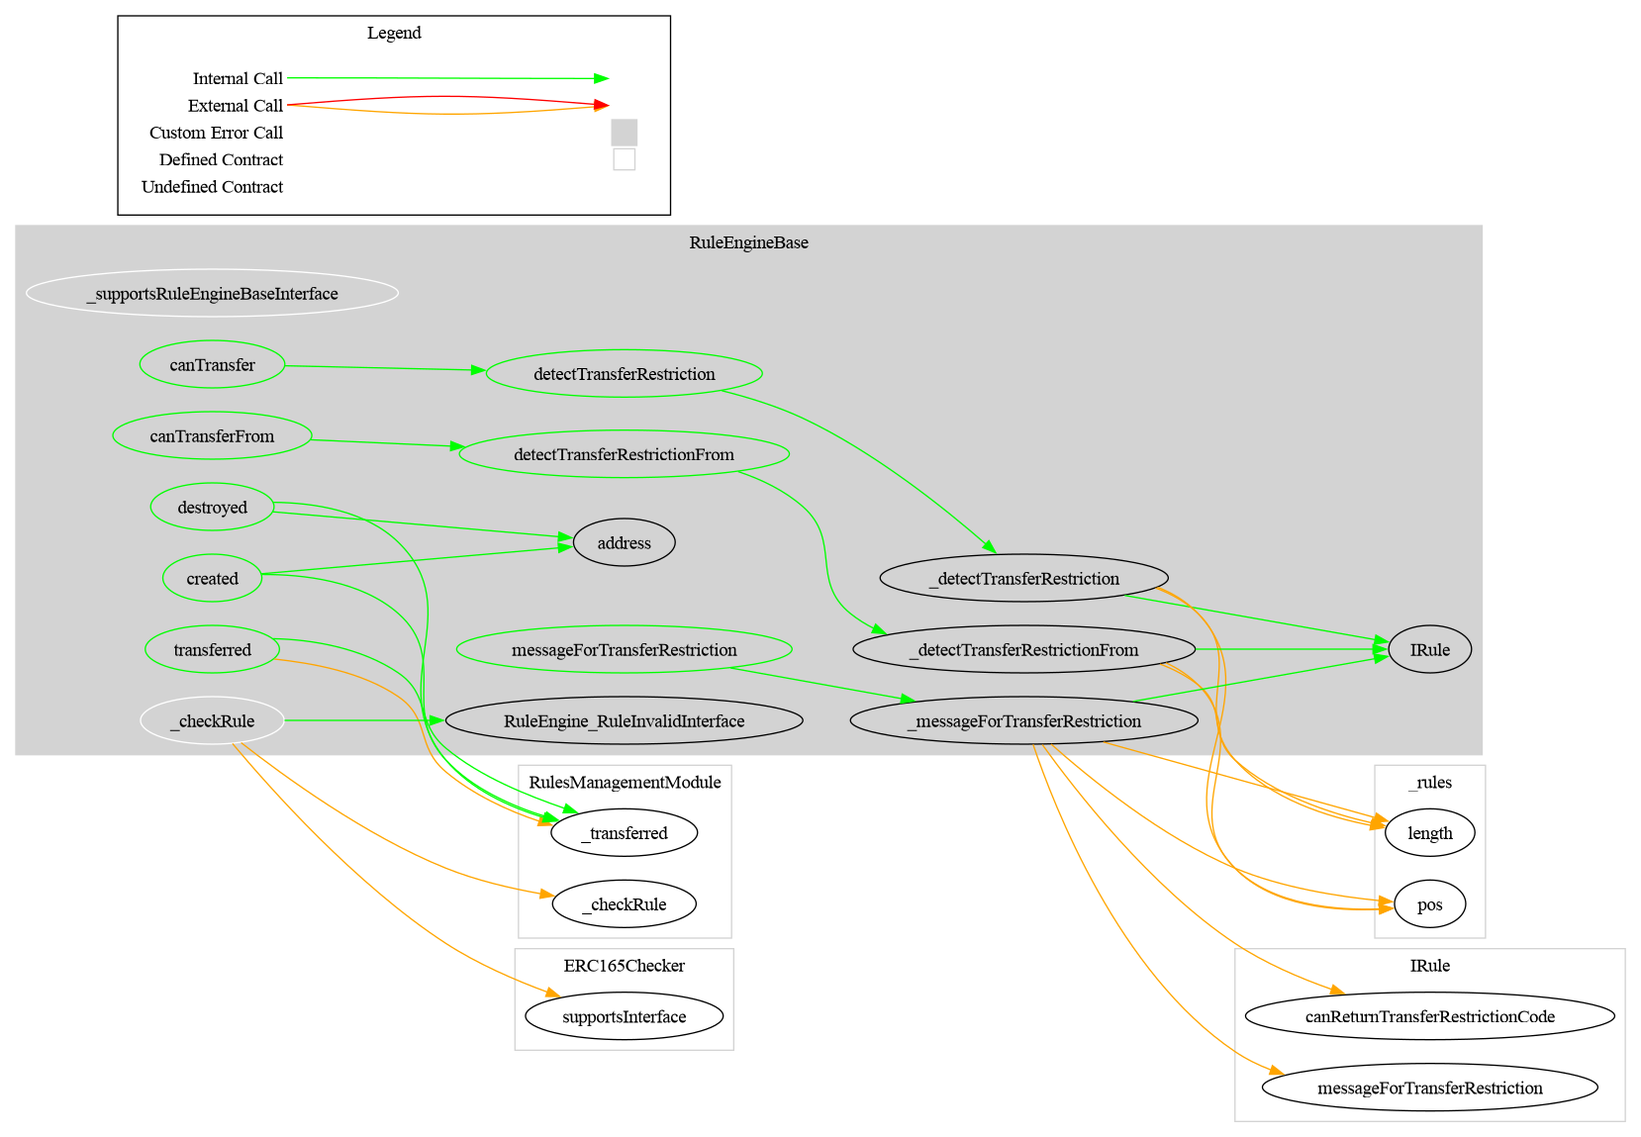
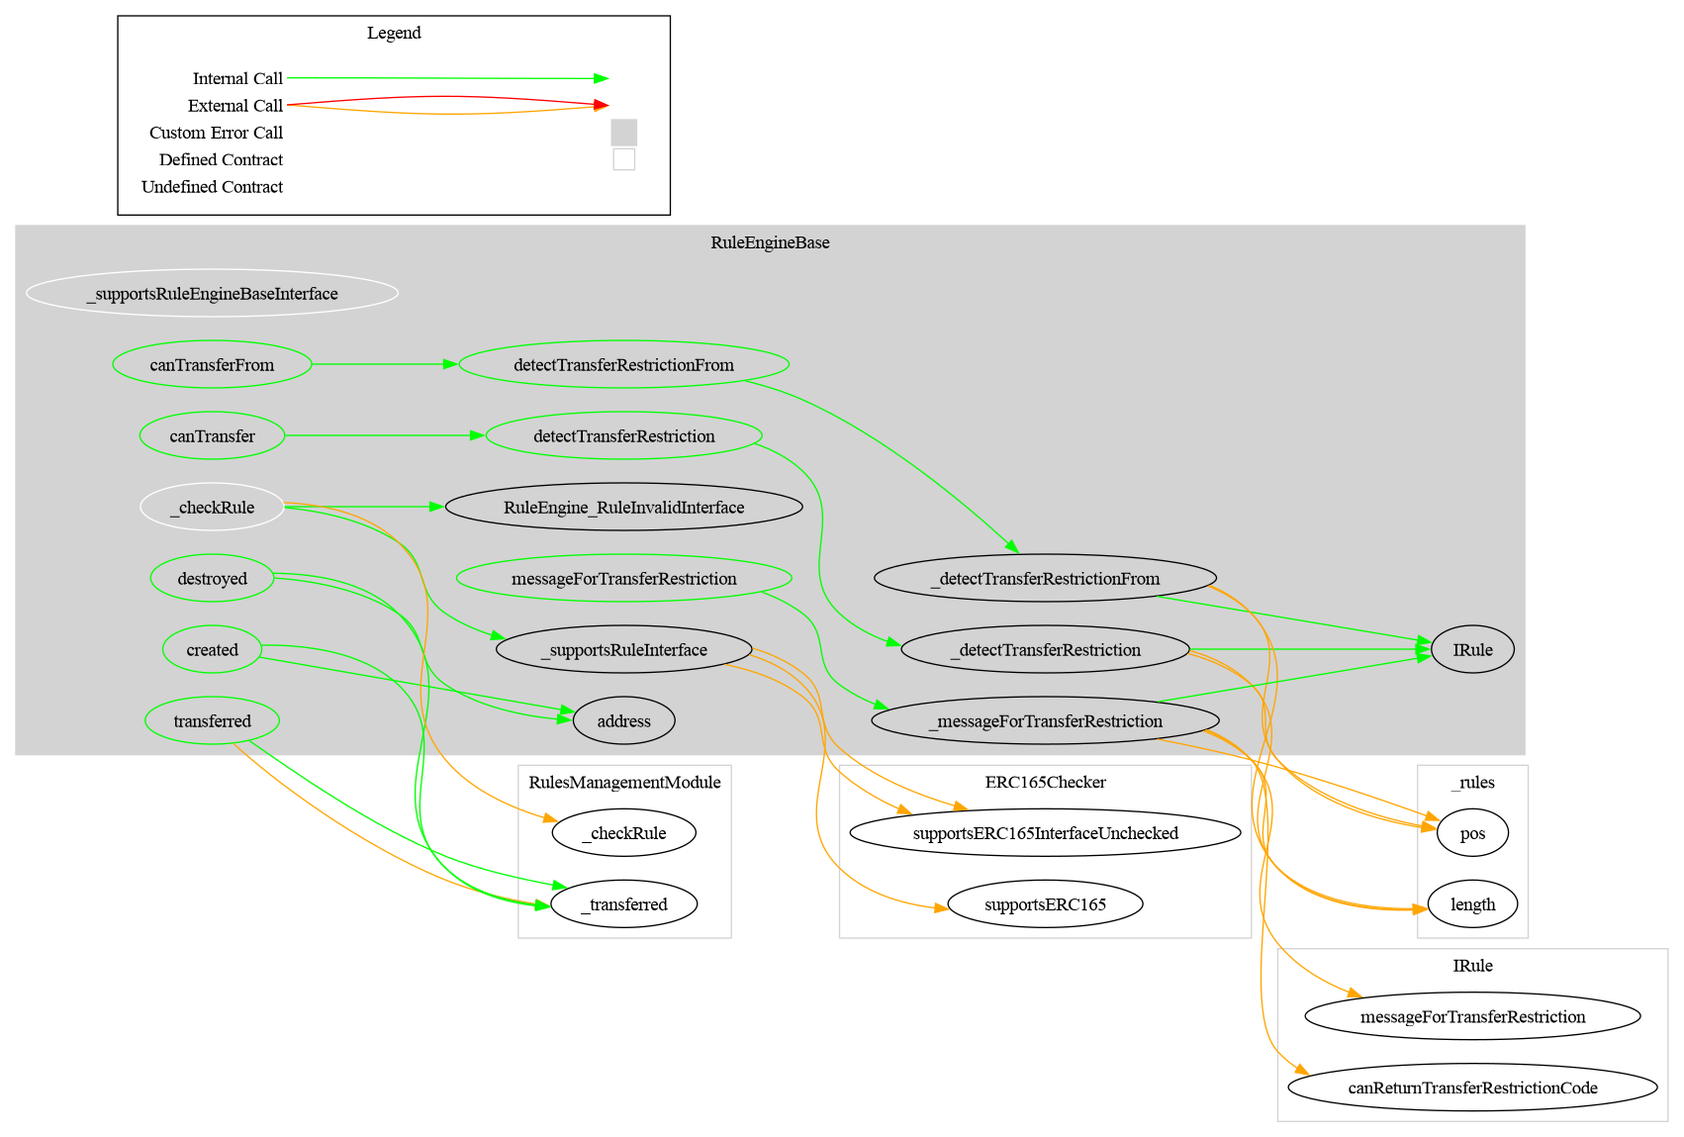
feat: accept the legacy IRule ERC-165 id 0x2497d6cb alongside the narrowed 0xb1a69752 so rules built before rc7 keep working, checking ERC-165 support once (rc7 code-quality review I-1)

diff --git a/CHANGELOG.md b/CHANGELOG.md
@@ -125,7 +125,6 @@ Security hardening of the ERC-2771 token-identity checks, and ERC-2771 becomes o
 - **ERC-2771 is now opt-in: `RuleEngine`, `RuleEngineOwnable` and `RuleEngineOwnable2Step` no longer support it, and their constructors drop the forwarder.** They are now `constructor(address admin, address tokenContract)` and `constructor(address owner_, address tokenContract)`, have no `isTrustedForwarder` / `trustedForwarder`, and treat every caller as the raw `msg.sender`. The versions with a trusted forwarder are the new **`RuleEngine2771`**, **`RuleEngineOwnable2771`** and **`RuleEngineOwnable2Step2771`**, whose constructors `(admin|owner_, forwarderIrrevocable, tokenContract)` and behaviour are those of the rc6 contracts without the suffix. Migration: a deployment that passed `address(0)` as forwarder drops the middle argument; one that passed a forwarder deploys the `*2771` contract. Deployment scripts in other repositories (for example CMTA/Rules) that call the 3-argument constructors must be updated.
 - **Token callbacks and token self-binding are no longer relayable through the ERC-2771 forwarder.** `transferred`, `created` and `destroyed` (`onlyBoundToken`), and a token's own `bindToken` / `unbindToken(this)`, now identify the token by `msg.sender` instead of `_msgSender()`. A call that the trusted forwarder relays with a token address appended is rejected (`TokenBinding_UnauthorizedCaller`, or the binding-manager check for the self-binding path). Real tokens are unaffected, because they always call the engine directly. Only a setup that relayed token callbacks through the forwarder breaks, and no legitimate setup does. Administrative functions are unchanged and remain relayable.
 - **`version()` return value format.** It now returns `"3.0.0-rc7"` instead of `"3.0.0"`. An integration that compares the string literally (deployment checks, indexers, upgrade scripts) must be updated, and must expect the suffix to change at each release candidate.
-- **`IRule` narrowed: its ERC-165 ID changes from `0x2497d6cb` to `0xb1a69752`, and the engine accepts only the new one.** `IRule` now requires only the six functions the engine calls (`transferred` x2, `detectTransferRestriction`, `detectTransferRestrictionFrom`, `messageForTransferRestriction`, `canReturnTransferRestrictionCode`) plus ERC-165; it no longer inherits CMTAT's `IRuleEngineERC1404`, so `canTransfer` / `canTransferFrom` are no longer required. **A rule that advertises only `0x2497d6cb` is rejected by `addRule` / `setRules` (`RuleEngine_RuleInvalidInterface`)**: every rule of the Rules repository must advertise the new ID (both IDs, to work with older engines too) before it can be added to an rc7 engine. A rule that also wants to be set directly as a token's rule engine implements `IRuleEngineERC1404` on top of `IRule`. rc7 code-quality review `I-1`.
 - **Deployable source paths.** The six deployables moved from `src/deployment/` to `src/deployment/accessControl/` (`RuleEngine`, `RuleEngine2771`) and `src/deployment/ownable/` (the four ownable contracts). A project that imports them, or a script that names the file (`forge create src/deployment/RuleEngine.sol:RuleEngine`), must update the path. Contract names, constructors and ABIs are unchanged.
 - **No storage change.** The RuleEngine is not upgradeable and uses no ERC-7201 namespace.
 - **No external engine interface change.** Function signatures, selectors, events, errors (except the removal of the unreachable `RuleEngine_RulesManagementModule_OperationNotSuccessful`) and advertised ERC-165 interface IDs are identical to rc6 (the engine advertises no `IRule` ID; the ID it *requires* of rules changes, see above), for all four variants (ERC-2771 has no ERC-165 id). Only who may call the token callbacks changes, and the constructors and ERC-2771 views of the three contracts without the `2771` suffix (see above). The CMTAT v3.3.0-rc4 update changes only NatSpec in `IRuleEngine`. Its engine-facing breaking changes (mint, burn and the minter `batchTransfer` routed to the 4-argument `transferred`, the reentrancy guard around `transferred`, the `^0.8.24` pragma of the engine interfaces) were already present in the v3.3.0-rc1 / rc3 targets of rc4–rc6.
@@ -144,7 +143,7 @@ Security hardening of the ERC-2771 token-identity checks, and ERC-2771 becomes o
 - CI (`.github/workflows/ci.yml`) also runs `FOUNDRY_PROFILE=erc3643 forge test`, so the 13 tests against the real T-REX 4.2.0-beta1 token are no longer skipped. rc7 code-quality review `K-4`.
 - A rule used directly as a CMTAT token's rule engine (no RuleEngine) is now tested and documented: `test/RuleStandalone/RuleStandaloneCMTAT.t.sol` (9 tests, one or more per reference rule, on a real CMTAT token; 438 -> 447 tests) and `RuleEngine-with-CMTAT.md` §4.8, which states what a rule must do for that role (restrict who calls `transferred` when it keeps state, keep `canTransfer*` consistent with `detectTransferRestriction*`). The four reference rules import `RULE_ENGINE_INTERFACE_ID` and `ERC1404EXTEND_INTERFACE_ID` from CMTAT instead of hardcoding them. rc7 code-quality review `I-2`.
 - Error style: the 8 remaining `if (...) { revert X(); }` sites in `src/` (and 4 in the mock rules) use `require(cond, X())`, as the project convention asks. Same errors, same conditions; gas unchanged on the token path (`transferred`), +13 on `addRule` (the cap is cached in a local because `require` evaluates the error argument eagerly) and +5 on `setRules`. rc7 code-quality review `E-2`.
-- `IRule` declares the engine's needs only (`src/interfaces/IRule.sol`: `IERC1404Extend`, `IERC3643IComplianceContract`, `IERC165`, plus the 4-argument `transferred` and `canReturnTransferRestrictionCode`) and `RuleInterfaceId.IRULE_INTERFACE_ID` is recomputed (`0xb1a69752`). The four reference rules also implement `IRuleEngineERC1404` to keep the standalone role, with `override(IRule, IRuleEngine)` on the 4-argument `transferred`; the test probes `RuleCodeProbe` and `SupplyCapProbeRule` drop `canTransfer` / `canTransferFrom` and are accepted on all six deployables. New tests: the new ID equals the old one XOR the two selectors, an engine-only rule is accepted and a rule advertising only `0x2497d6cb` is rejected, on all six deployables (447 -> 460 tests). rc7 code-quality review `I-1`.
+- `IRule` declares the engine's needs only (`src/interfaces/IRule.sol`: `IERC1404Extend`, `IERC3643IComplianceContract`, `IERC165`, plus the 4-argument `transferred` and `canReturnTransferRestrictionCode`) and `RuleInterfaceId.IRULE_INTERFACE_ID` is recomputed (`0xb1a69752`). The four reference rules also implement `IRuleEngineERC1404` to keep the standalone role, with `override(IRule, IRuleEngine)` on the 4-argument `transferred`; the test probes `RuleCodeProbe` and `SupplyCapProbeRule` drop `canTransfer` / `canTransferFrom` and are accepted on all six deployables. `IRule` no longer inherits CMTAT's `IRuleEngineERC1404`, so a new rule needs neither `canTransfer` nor `canTransferFrom`. **Not breaking for existing rules:** `RuleEngineBase._supportsRuleInterface` accepts the new ID or the legacy one (`RuleInterfaceId.IRULE_LEGACY_INTERFACE_ID`, `0x2497d6cb`, a superset of the new interface), after checking ERC-165 support once; a contract advertising neither, or answering `true` to every ID, is rejected. `addRule` with a current-ID rule costs 64 gas less than before. New tests: the new ID equals the old one XOR the two selectors and the legacy constant is pinned; on all six deployables, an engine-only rule is accepted, a rule advertising only the legacy ID is accepted, and a contract advertising no rule ID, claiming every ID, or without ERC-165 (an EOA) is rejected; removing the ERC-165 pre-check or the legacy fallback each fails 6 tests (447 -> 481 tests). rc7 code-quality review `I-1`.
 - `bindTokens` / `unbindTokens` stay atomic by decision: one token already bound (or not bound) reverts the whole call, unlike the skip-if-already-done batch convention of `RuleAddressList`, because a binding change is security-relevant. Stated in the `ITokenBindingExtended` NatSpec and `TokenBinding-module.md` §4; the batch tests now check the rollback of the tokens processed before the failure, and a new test pins empty batches as no-ops, in the three access-control families (460 -> 463 tests). rc7 code-quality review `C-3`.
 - Self-binding approval events: kept as they are, documented. The `ITokenBindingExtended` NatSpec no longer says `TokenSelfBindingApprovalBatchSet` lists the tokens whose permission *changed* (it is the input array, with no-ops and duplicates), and states that the batch emits no per-token `TokenSelfBindingApprovalSet`, so indexers must handle both events or read `isTokenSelfBindingApproved`; same warning in `TokenBinding-module.md` §4. `TokenBound` / `TokenUnbound` NatSpec states they stay non-indexed as declared by ERC-3643. rc7 code-quality review `C-2`.
 - `version()` now returns `"3.0.0-rc7"` instead of `"3.0.0"`, so the on-chain string matches the release tag (`VersionModule.VERSION`). The `version()` assertions of the RBAC and Ownable suites and of the Hardhat smoke test are updated, and `RuleEngineOwnable2Step` gains its own `testHasRightVersion` (348 -> 349 tests).

diff --git a/doc/security/audits/tools/v3.0.0-rc7/CLAUDE_ANALYSIS.md b/doc/security/audits/tools/v3.0.0-rc7/CLAUDE_ANALYSIS.md
@@ -67,7 +67,7 @@ ERC-2771 / no-forwarder suites; see the CHANGELOG). No benchmark or probe file i
 | H-1 | View approves a mint that enforcement rejects | ⬜ documented — carried, unchanged |
 | H-2 | Sender resolution after the ERC-2771 fix and the split | ⬜ verified — two identity sites, both `msg.sender`; no-forwarder variants ignore any suffix |
 | H-3 | A `*2771` deployable accepts `address(0)` as its forwarder | ⚠ decide — new in the second pass |
-| I-1 | `IRule` demands two functions the engine never calls | ✅ fixed after the second pass — `IRule` narrowed, ID `0xb1a69752`, strict gate (old ID rejected) |
+| I-1 | `IRule` demands two functions the engine never calls | ✅ fixed after the second pass — `IRule` narrowed, ID `0xb1a69752`; the legacy ID `0x2497d6cb` is still accepted |
 | I-2 | Standalone-rule configuration advertised but untested | ✅ fixed after the second pass (option 1) — 9 integration tests, CMTAT guide §4.8, mocks import CMTAT's ids; mock `transferred` left unguarded, documented |
 | I-3 | Engine should call `canTransfer` on rules? | ⬜ no — carried from rc6 |
 | J-1 | Binding registry embeddable in a foreign host | ⬜ re-verified by example — two hosts compile (no `5005`); size depends on the host's CMTAT deployment version |
@@ -799,6 +799,29 @@ nothing calls.
   (`testEngineOnlyRuleWithoutComplianceReadsIsAccepted`, and every rule-aggregation and real-T-REX test).
 - **Verified:** full suite 460/460, `FOUNDRY_PROFILE=erc3643 forge test` 13/13, production coverage 100% (lines,
   statements, branches 48/48, functions).
+
+**Revised: the legacy ID is accepted after all (maintainer decision).** The strict gate above was reversed so
+that rules built before rc7 keep working without a coordinated release. The bullet "Migration: strict" is
+superseded; the rest stands.
+
+- **Gate.** `RuleEngineBase._checkRule` now calls a new `internal view virtual` hook,
+  `_supportsRuleInterface(rule)`: it checks ERC-165 support once (`ERC165Checker.supportsERC165`, which also
+  rejects a contract answering `true` to `0xffffffff`), then `IRULE_INTERFACE_ID`, then, only if that fails,
+  `IRULE_LEGACY_INTERFACE_ID`. Accepting the legacy ID is safe: it describes a superset of the current interface
+  (the same six functions plus `canTransfer` / `canTransferFrom`), and the engine calls only the six.
+- **Constant.** `RuleInterfaceId.IRULE_LEGACY_INTERFACE_ID = IRULE_INTERFACE_ID ^ IERC3643ComplianceRead ^
+  IERC7551Compliance = 0x2497d6cb`, computed like the others and pinned by
+  `testIRuleIdExcludesTheComplianceReads`.
+- **Tests, on all six deployables** (`RuleAggregationTestBase`): `testRuleAdvertisingOnlyTheLegacyIdIsAccepted`
+  (was `...IsRejected`), and three negative tests: `testRuleAdvertisingNoRuleIdIsRejected`,
+  `testRuleClaimingEveryInterfaceIsRejected`, `testRuleWithoutErc165IsRejected` (an EOA). Checked that they can
+  fail: removing the legacy fallback fails 6 tests, removing the ERC-165 pre-check fails 6 (the
+  claim-everything case; the EOA case alone would not catch it, since a call to an EOA returns no data and
+  reads as `false`).
+- **Gas.** `addRule` with a current-ID rule: 68,069 -> 68,005 (−64), since ERC-165 support and the ID are now
+  queried in one pass. A legacy rule pays one more `staticcall` (not isolated).
+- **Verified:** full suite 481/481, `FOUNDRY_PROFILE=erc3643 forge test` 13/13, production coverage 100% (lines,
+  statements, branches 49/49, functions).
 
 The limit stated above still holds: the narrowed ID describes shape, not semantics.
 

diff --git a/AGENTS.md b/AGENTS.md
@@ -167,9 +167,14 @@ require(_rules.add(address(rule_)), RuleEngine_RulesManagementModule_RuleAlready
 // RuleEngineBase (adds ERC-165 check):
 function _checkRule(address rule_) internal view virtual override {
     RulesManagementModule._checkRule(rule_);
-    require(
-        ERC165Checker.supportsInterface(rule_, RuleInterfaceId.IRULE_INTERFACE_ID), RuleEngine_RuleInvalidInterface()
-    );
+    require(_supportsRuleInterface(rule_), RuleEngine_RuleInvalidInterface());
+}
+
+// ERC-165 support checked once, then the current IRule ID, then the legacy (pre-rc7) one:
+function _supportsRuleInterface(address rule_) internal view virtual returns (bool) {
+    if (!ERC165Checker.supportsERC165(rule_)) return false;
+    return ERC165Checker.supportsERC165InterfaceUnchecked(rule_, RuleInterfaceId.IRULE_INTERFACE_ID)
+        || ERC165Checker.supportsERC165InterfaceUnchecked(rule_, RuleInterfaceId.IRULE_LEGACY_INTERFACE_ID);
 }
 ```
 
@@ -246,7 +251,7 @@ This gives O(1) add/remove/contains and iterable storage.
 | `IRuleEngine` | Full CMTAT integration interface | `lib/CMTAT/contracts/interfaces/engine/IRuleEngine.sol` |
 
 **ERC-165 interface IDs:**
-- `IRule`: `0xb1a69752` (`src/modules/library/RuleInterfaceId.sol`). Narrowed in rc7 (was `0x2497d6cb`, which also covered `canTransfer` / `canTransferFrom`); the engine accepts only the new ID
+- `IRule`: `0xb1a69752` (`src/modules/library/RuleInterfaceId.sol`). Narrowed in rc7 (was `0x2497d6cb`, which also covers `canTransfer` / `canTransferFrom`); the engine accepts both, the legacy one as `IRULE_LEGACY_INTERFACE_ID` (`RuleEngineBase._supportsRuleInterface`)
 - `IERC3643Compliance`: `0x3144991c`, extended: `0x646ba2be`, `IERC7551Compliance`: `0x7157797f` (`ComplianceInterfaceId.sol`)
 - `IERC1404`: `0xab84a5c8` (`ERC1404InterfaceId.sol`)
 - `IRuleEngine`: from `CMTAT/library/RuleEngineInterfaceId.sol`
@@ -337,7 +342,7 @@ Key points:
 ## Key Invariants
 
 1. **Only bound tokens** can call `transferred()`, `created()`, `destroyed()`
-2. **Rules are validated via ERC-165** before being added — they must support `IRULE_INTERFACE_ID`
+2. **Rules are validated via ERC-165** before being added — they must support `IRULE_INTERFACE_ID` or the legacy `IRULE_LEGACY_INTERFACE_ID`
 3. **No duplicate rules** — `EnumerableSet` prevents this
 4. **No zero-address rules** — checked in `_checkRule`
 5. **Admin has all roles** in `RuleEngine` and `RuleEngine2771` (the `hasRole` override in `RuleEngine`, inherited by `RuleEngine2771`)

diff --git a/CLAUDE.md b/CLAUDE.md
@@ -167,9 +167,14 @@ require(_rules.add(address(rule_)), RuleEngine_RulesManagementModule_RuleAlready
 // RuleEngineBase (adds ERC-165 check):
 function _checkRule(address rule_) internal view virtual override {
     RulesManagementModule._checkRule(rule_);
-    require(
-        ERC165Checker.supportsInterface(rule_, RuleInterfaceId.IRULE_INTERFACE_ID), RuleEngine_RuleInvalidInterface()
-    );
+    require(_supportsRuleInterface(rule_), RuleEngine_RuleInvalidInterface());
+}
+
+// ERC-165 support checked once, then the current IRule ID, then the legacy (pre-rc7) one:
+function _supportsRuleInterface(address rule_) internal view virtual returns (bool) {
+    if (!ERC165Checker.supportsERC165(rule_)) return false;
+    return ERC165Checker.supportsERC165InterfaceUnchecked(rule_, RuleInterfaceId.IRULE_INTERFACE_ID)
+        || ERC165Checker.supportsERC165InterfaceUnchecked(rule_, RuleInterfaceId.IRULE_LEGACY_INTERFACE_ID);
 }
 ```
 
@@ -246,7 +251,7 @@ This gives O(1) add/remove/contains and iterable storage.
 | `IRuleEngine` | Full CMTAT integration interface | `lib/CMTAT/contracts/interfaces/engine/IRuleEngine.sol` |
 
 **ERC-165 interface IDs:**
-- `IRule`: `0xb1a69752` (`src/modules/library/RuleInterfaceId.sol`). Narrowed in rc7 (was `0x2497d6cb`, which also covered `canTransfer` / `canTransferFrom`); the engine accepts only the new ID
+- `IRule`: `0xb1a69752` (`src/modules/library/RuleInterfaceId.sol`). Narrowed in rc7 (was `0x2497d6cb`, which also covers `canTransfer` / `canTransferFrom`); the engine accepts both, the legacy one as `IRULE_LEGACY_INTERFACE_ID` (`RuleEngineBase._supportsRuleInterface`)
 - `IERC3643Compliance`: `0x3144991c`, extended: `0x646ba2be`, `IERC7551Compliance`: `0x7157797f` (`ComplianceInterfaceId.sol`)
 - `IERC1404`: `0xab84a5c8` (`ERC1404InterfaceId.sol`)
 - `IRuleEngine`: from `CMTAT/library/RuleEngineInterfaceId.sol`
@@ -337,7 +342,7 @@ Key points:
 ## Key Invariants
 
 1. **Only bound tokens** can call `transferred()`, `created()`, `destroyed()`
-2. **Rules are validated via ERC-165** before being added — they must support `IRULE_INTERFACE_ID`
+2. **Rules are validated via ERC-165** before being added — they must support `IRULE_INTERFACE_ID` or the legacy `IRULE_LEGACY_INTERFACE_ID`
 3. **No duplicate rules** — `EnumerableSet` prevents this
 4. **No zero-address rules** — checked in `_checkRule`
 5. **Admin has all roles** in `RuleEngine` and `RuleEngine2771` (the `hasRole` override in `RuleEngine`, inherited by `RuleEngine2771`)

diff --git a/doc/README.md b/doc/README.md
@@ -456,9 +456,10 @@ Notes:
   `ruleEngine.supportsInterface(0xb1a69752)` to return true.
 - **`IRule` was narrowed in v3.0.0-rc7.** It requires the six functions the engine calls (`transferred` x2,
   `detectTransferRestriction(From)`, `messageForTransferRestriction`, `canReturnTransferRestrictionCode`) plus
-  ERC-165, and no longer `canTransfer` / `canTransferFrom`. The ID moved from `0x2497d6cb` to `0xb1a69752`, and
-  the engine accepts **only** the new one: a rule that advertises only `0x2497d6cb` is rejected by `addRule` /
-  `setRules` with `RuleEngine_RuleInvalidInterface`. A rule built for both generations advertises both IDs.
+  ERC-165, and no longer `canTransfer` / `canTransferFrom`. The ID moved from `0x2497d6cb` to `0xb1a69752`.
+  **The engine accepts both**: the legacy ID (`RuleInterfaceId.IRULE_LEGACY_INTERFACE_ID`) describes a superset
+  of the current interface, so rules built before rc7 can still be added. A contract advertising neither, or
+  not implementing ERC-165 correctly, is rejected with `RuleEngine_RuleInvalidInterface`.
 - **The IDs are computed from the interfaces, not hardcoded** — see `ComplianceInterfaceId`, `RuleInterfaceId`
   and `ERC1404InterfaceId`, and `test/RuleEngine/IRuleInterfaceId.t.sol`, which pins each one to the wire value
   above. `type(I).interfaceId` counts only the functions `I` declares *directly*, so every constant XORs the
@@ -667,7 +668,7 @@ Rule families:
 
 Additional integration notes:
 
-- For RuleEngine integration, a rule must implement `IRule` and advertise its ERC-165 ID `0xb1a69752`. Since v3.0.0-rc7 that ID no longer includes `canTransfer` / `canTransferFrom`, and a rule advertising only the older `0x2497d6cb` is rejected; rules from the Rules repository must advertise the new ID to be added to an rc7 engine.
+- For RuleEngine integration, a rule must implement `IRule` and advertise its ERC-165 ID `0xb1a69752`. Since v3.0.0-rc7 that ID no longer includes `canTransfer` / `canTransferFrom`. A rule advertising only the older `0x2497d6cb` (rules of the Rules repository built before rc7) is still accepted.
 - RuleEngine executes configured rules in order and reverts on the first failing rule in state-changing paths.
 - Restriction codes should remain unique across the composed rule set. Keep CMTAT-reserved ranges free and use dedicated code ranges per rule 
 - For the latest list of production rules, audits, and status, use the Rules repository as the source of truth.

diff --git a/README.md b/README.md
@@ -111,7 +111,7 @@ Production rules are maintained at [github.com/CMTA/Rules](https://github.com/CM
 
 The Rules repository is the source of truth for this list; see [doc/README.md § Available Rules](./doc/README.md#available-rules) for details and caveats.
 
-To be usable by the engine, a rule must implement `IRule` and advertise it through ERC-165 (`0xb1a69752` since v3.0.0-rc7; the older `0x2497d6cb`, which also covered `canTransfer` / `canTransferFrom`, is rejected). Restriction codes should stay unique across the composed rule set.
+To be usable by the engine, a rule must implement `IRule` and advertise it through ERC-165 (`0xb1a69752` since v3.0.0-rc7; the older `0x2497d6cb`, which also covers `canTransfer` / `canTransferFrom`, is still accepted). Restriction codes should stay unique across the composed rule set.
 
 ## Quick start
 

diff --git a/doc/schema/surya/surya_report/surya_report_RuleEngineBase.sol.md b/doc/schema/surya/surya_report/surya_report_RuleEngineBase.sol.md
@@ -5,7 +5,7 @@
 
 |  File Name  |  SHA-1 Hash  |
 |-------------|--------------|
-| ./RuleEngineBase.sol | 4ea2ff4b3136e3aaa1dcbaea24c299ab7f7305a8 |
+| ./RuleEngineBase.sol | 129a9afd0ff6551f79d6d851733702d9ed40d1ed |
 
 
 ### Contracts Description Table
@@ -29,6 +29,7 @@
 | └ | _detectTransferRestrictionFrom | Internal 🔒 |   | |
 | └ | _messageForTransferRestriction | Internal 🔒 |   | |
 | └ | _checkRule | Internal 🔒 |   | |
+| └ | _supportsRuleInterface | Internal 🔒 |   | |
 | └ | _supportsRuleEngineBaseInterface | Internal 🔒 |   | |
 
 

diff --git a/doc/schema/surya/surya_report/surya_report_RuleInterfaceId.sol.md b/doc/schema/surya/surya_report/surya_report_RuleInterfaceId.sol.md
@@ -5,7 +5,7 @@
 
 |  File Name  |  SHA-1 Hash  |
 |-------------|--------------|
-| ./modules/library/RuleInterfaceId.sol | c9474a06c6baa56a4ca32637e6658873bca7e5e9 |
+| ./modules/library/RuleInterfaceId.sol | a5b057d414d0a2c838d7a759a4aedeb75947761e |
 
 
 ### Contracts Description Table
